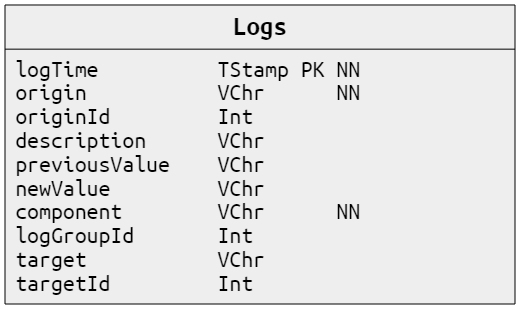
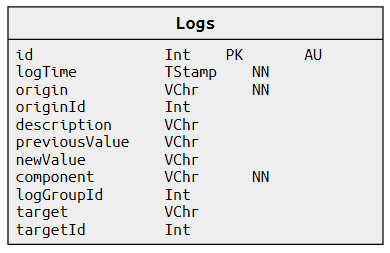
Update of LogsTable and readMe

Changed region(s): [[0.0, 0.0, 1.0, 0.996], [0.7692, 0.1937, 0.8308, 0.249], [0.6462, 0.664, 0.7077, 0.7194]]

diff --git a/common/tma-utils/src/main/java/eubr/atmosphere/tma/logs/README.md b/common/tma-utils/src/main/java/eubr/atmosphere/tma/logs/README.md
@@ -11,7 +11,9 @@ Next, we present the table that represent this logs on the database and we descr
 
 Fields explanation:
 
-* `LogTime` -> It is the time the log happens and it's used as primary key.
+* `id` -> It is the primary key, an unique identifier of each log and is automatically incremented.
+
+* `logTime` -> It is the time the log happens.
 
 * `origin` -> It is the subject that dispatches the log. For example, it can be a Plan, Quality Model, etc...
 
